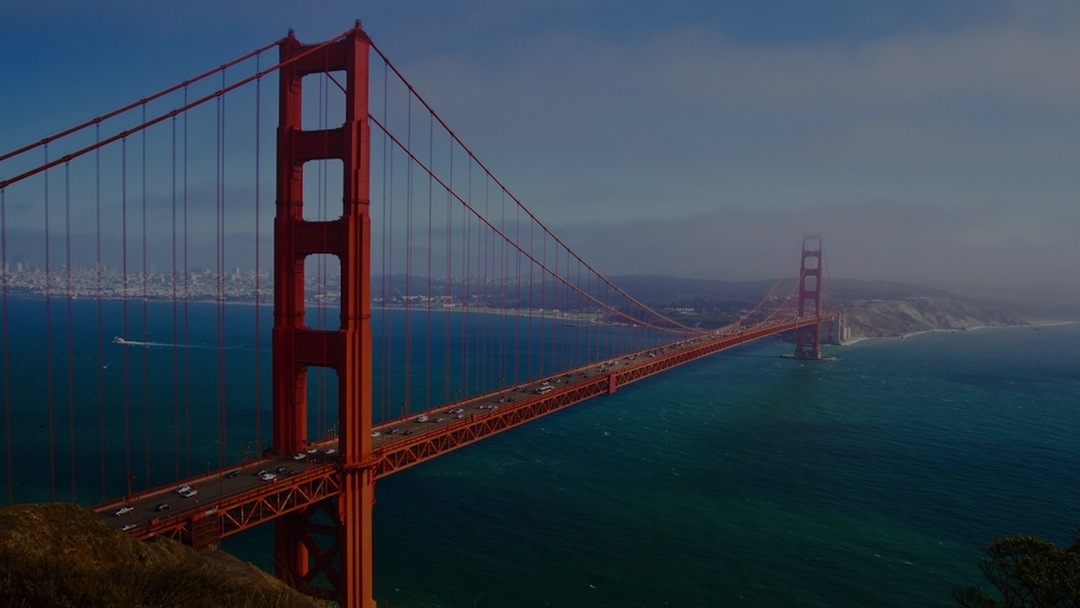
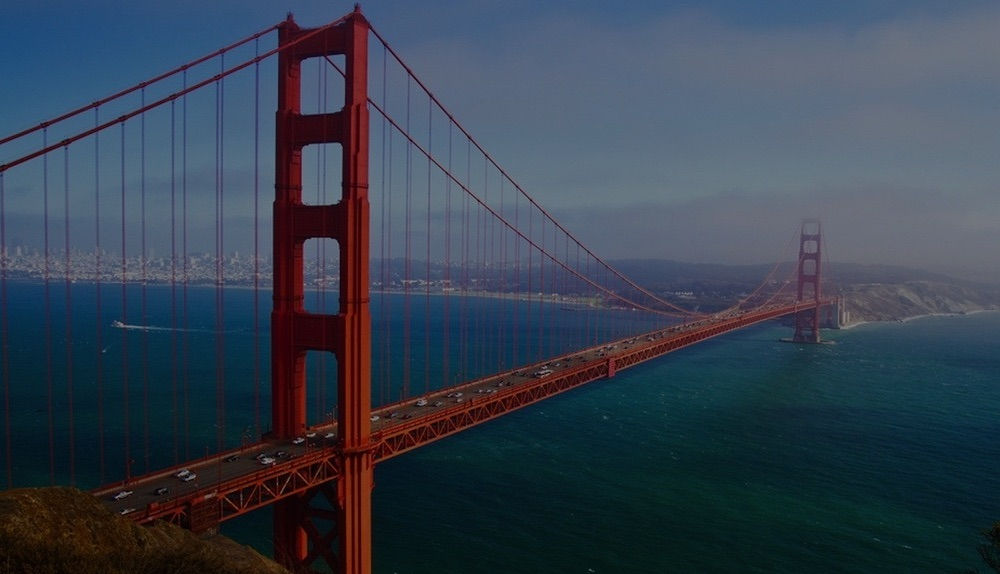
resized image for smoother transitions

diff --git a/js/index.js b/js/index.js
@@ -21,7 +21,7 @@ function largePageChanges() {
 }
 
 function smallPageChanges() {
-    $('#intro-header-main').css("height", '50%');
+    $('#intro-header-main').css("height", '55%');
     $('#intro-header-main').css("min-height", '350px');
     $('footer').css('display', 'relative');
     $('footer').css('bottom', '');
@@ -129,7 +129,7 @@ $(document).ready(function() {
       var pageY = e.pageY - ($(document).height() / 2);
       var weight = 0.8;
       var newvalueX = weight * width * pageX * -1 - 5;
-      var newvalueY = weight * height * pageY * -1 + 5;
+      var newvalueY = weight * height * pageY * -1 - 5;
       $(".intro-header").css("background-position", newvalueX + "px " + newvalueY + "px");
     });
 });
